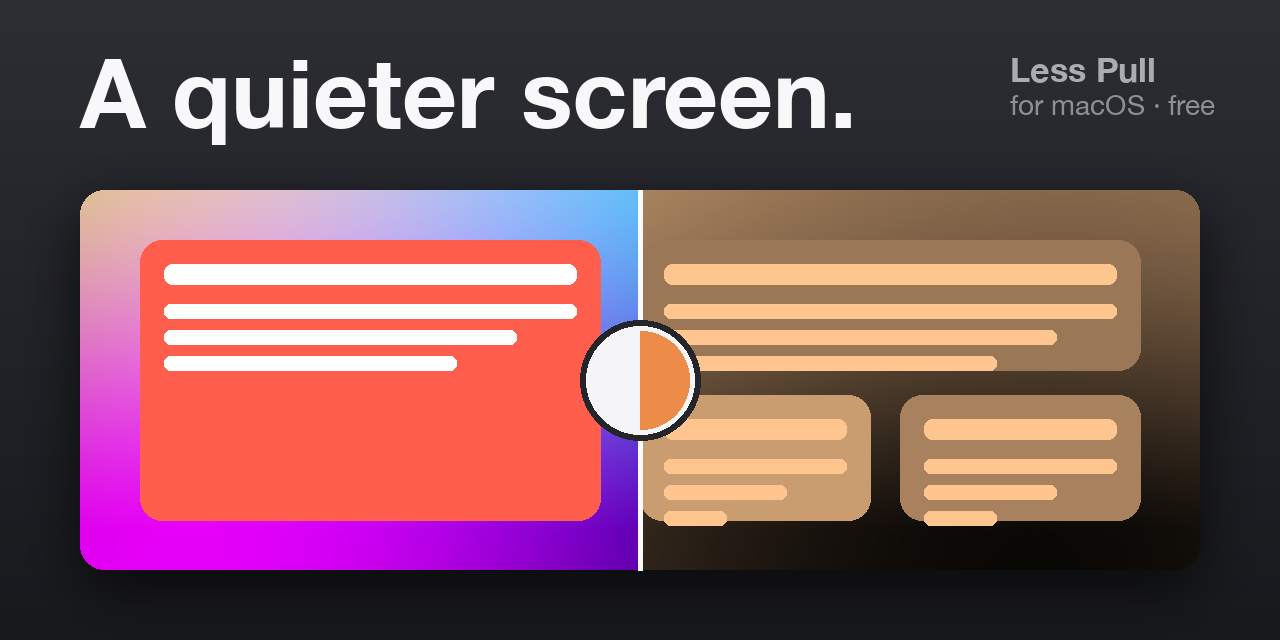
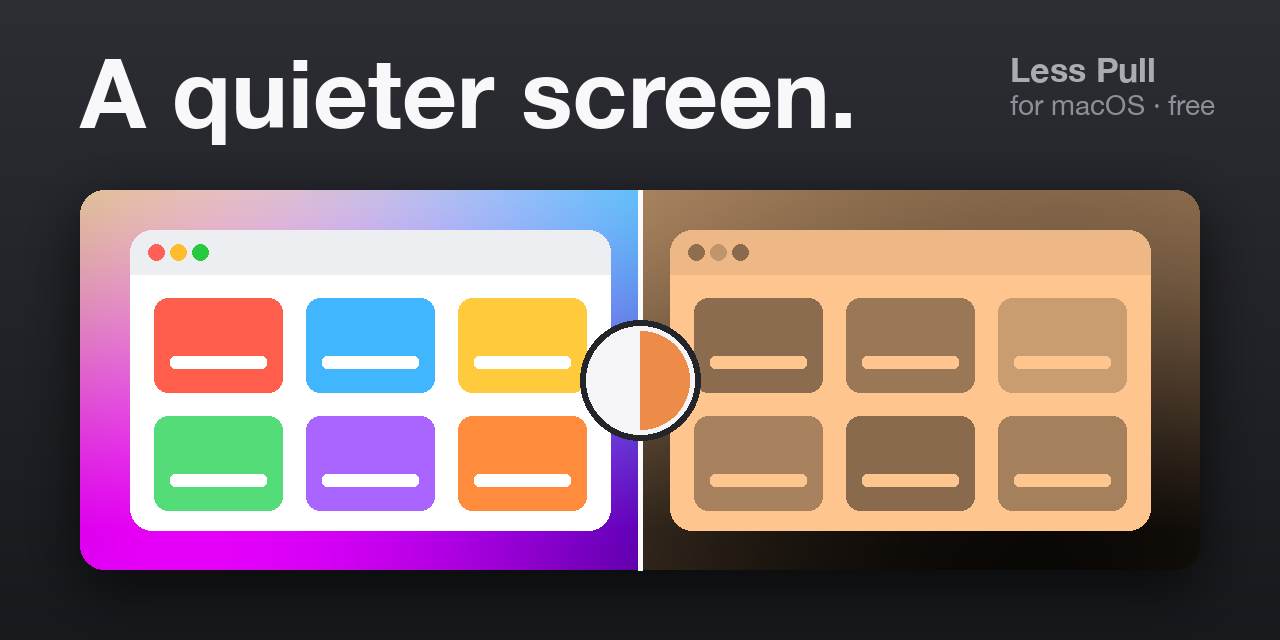
Social preview: the same window on both halves

Changed region(s): [[0.0938, 0.3438, 0.9062, 0.8438]]

diff --git a/docs/assets/src/social-preview.py b/docs/assets/src/social-preview.py
@@ -18,11 +18,18 @@ y, x = np.mgrid[0:sh, 0:sw]
 wall = np.stack([120 + 110 * np.sin(x / 260 + 1.2), 80 + 120 * np.cos(y / 180 + .4), 150 + 100 * np.sin((x + y) / 320)], -1).clip(0, 255).astype('uint8')
 screen = Image.fromarray(wall, 'RGB').convert('RGBA')
 d = ImageDraw.Draw(screen)
-cards = [((60, 50, 520, 330), (255, 94, 77)), ((560, 50, 1060, 180), (66, 181, 255)), ((560, 205, 790, 330), (255, 203, 60)), ((820, 205, 1060, 330), (84, 220, 120))]
-for (x0, y0, x1, y1), col in cards:
-    d.rounded_rectangle((x0, y0, x1, y1), 22, fill=col)
-    d.rounded_rectangle((x0 + 24, y0 + 24, x1 - 24, y0 + 44), 8, fill=(255, 255, 255, 230))
-    for i in range(3): d.rounded_rectangle((x0 + 24, y0 + 64 + i * 26, x1 - 24 - i * 60, y0 + 78 + i * 26), 6, fill=(255, 255, 255, 150))
+# the same window on each half, so the only difference is what Less Pull does to it
+def window(x0, y0, x1, y1):
+    d.rounded_rectangle((x0, y0, x1, y1), 22, fill=(255, 255, 255, 235))
+    d.rounded_rectangle((x0, y0, x1, y0 + 44), 22, fill=(236, 238, 242, 255)); d.rectangle((x0, y0 + 22, x1, y0 + 44), fill=(236, 238, 242, 255))
+    for i, c in enumerate([(255, 95, 86), (255, 189, 46), (39, 201, 63)]): d.ellipse((x0 + 18 + i * 22, y0 + 14, x0 + 34 + i * 22, y0 + 30), fill=c)
+    tiles = [(255, 94, 77), (66, 181, 255), (255, 203, 60), (84, 220, 120), (170, 100, 255), (255, 140, 60)]
+    tw = (x1 - x0 - 24 * 4) // 3
+    for i, c in enumerate(tiles):
+        tx = x0 + 24 + (i % 3) * (tw + 24); ty = y0 + 68 + (i // 3) * 118
+        d.rounded_rectangle((tx, ty, tx + tw, ty + 94), 14, fill=c)
+        d.rounded_rectangle((tx + 16, ty + 58, tx + tw - 16, ty + 70), 5, fill=(255, 255, 255, 190))
+for (x0, y0, x1, y1) in [(50, 40, 530, 340), (590, 40, 1070, 340)]: window(x0, y0, x1, y1)
 arr = np.asarray(screen.convert('RGB')).astype(float)
 right = arr[:, sw // 2:] @ matrix(0.5, True).T  # grayscale with a light amber, an everyday setting
 arr[:, sw // 2:] = right.clip(0, 255)
